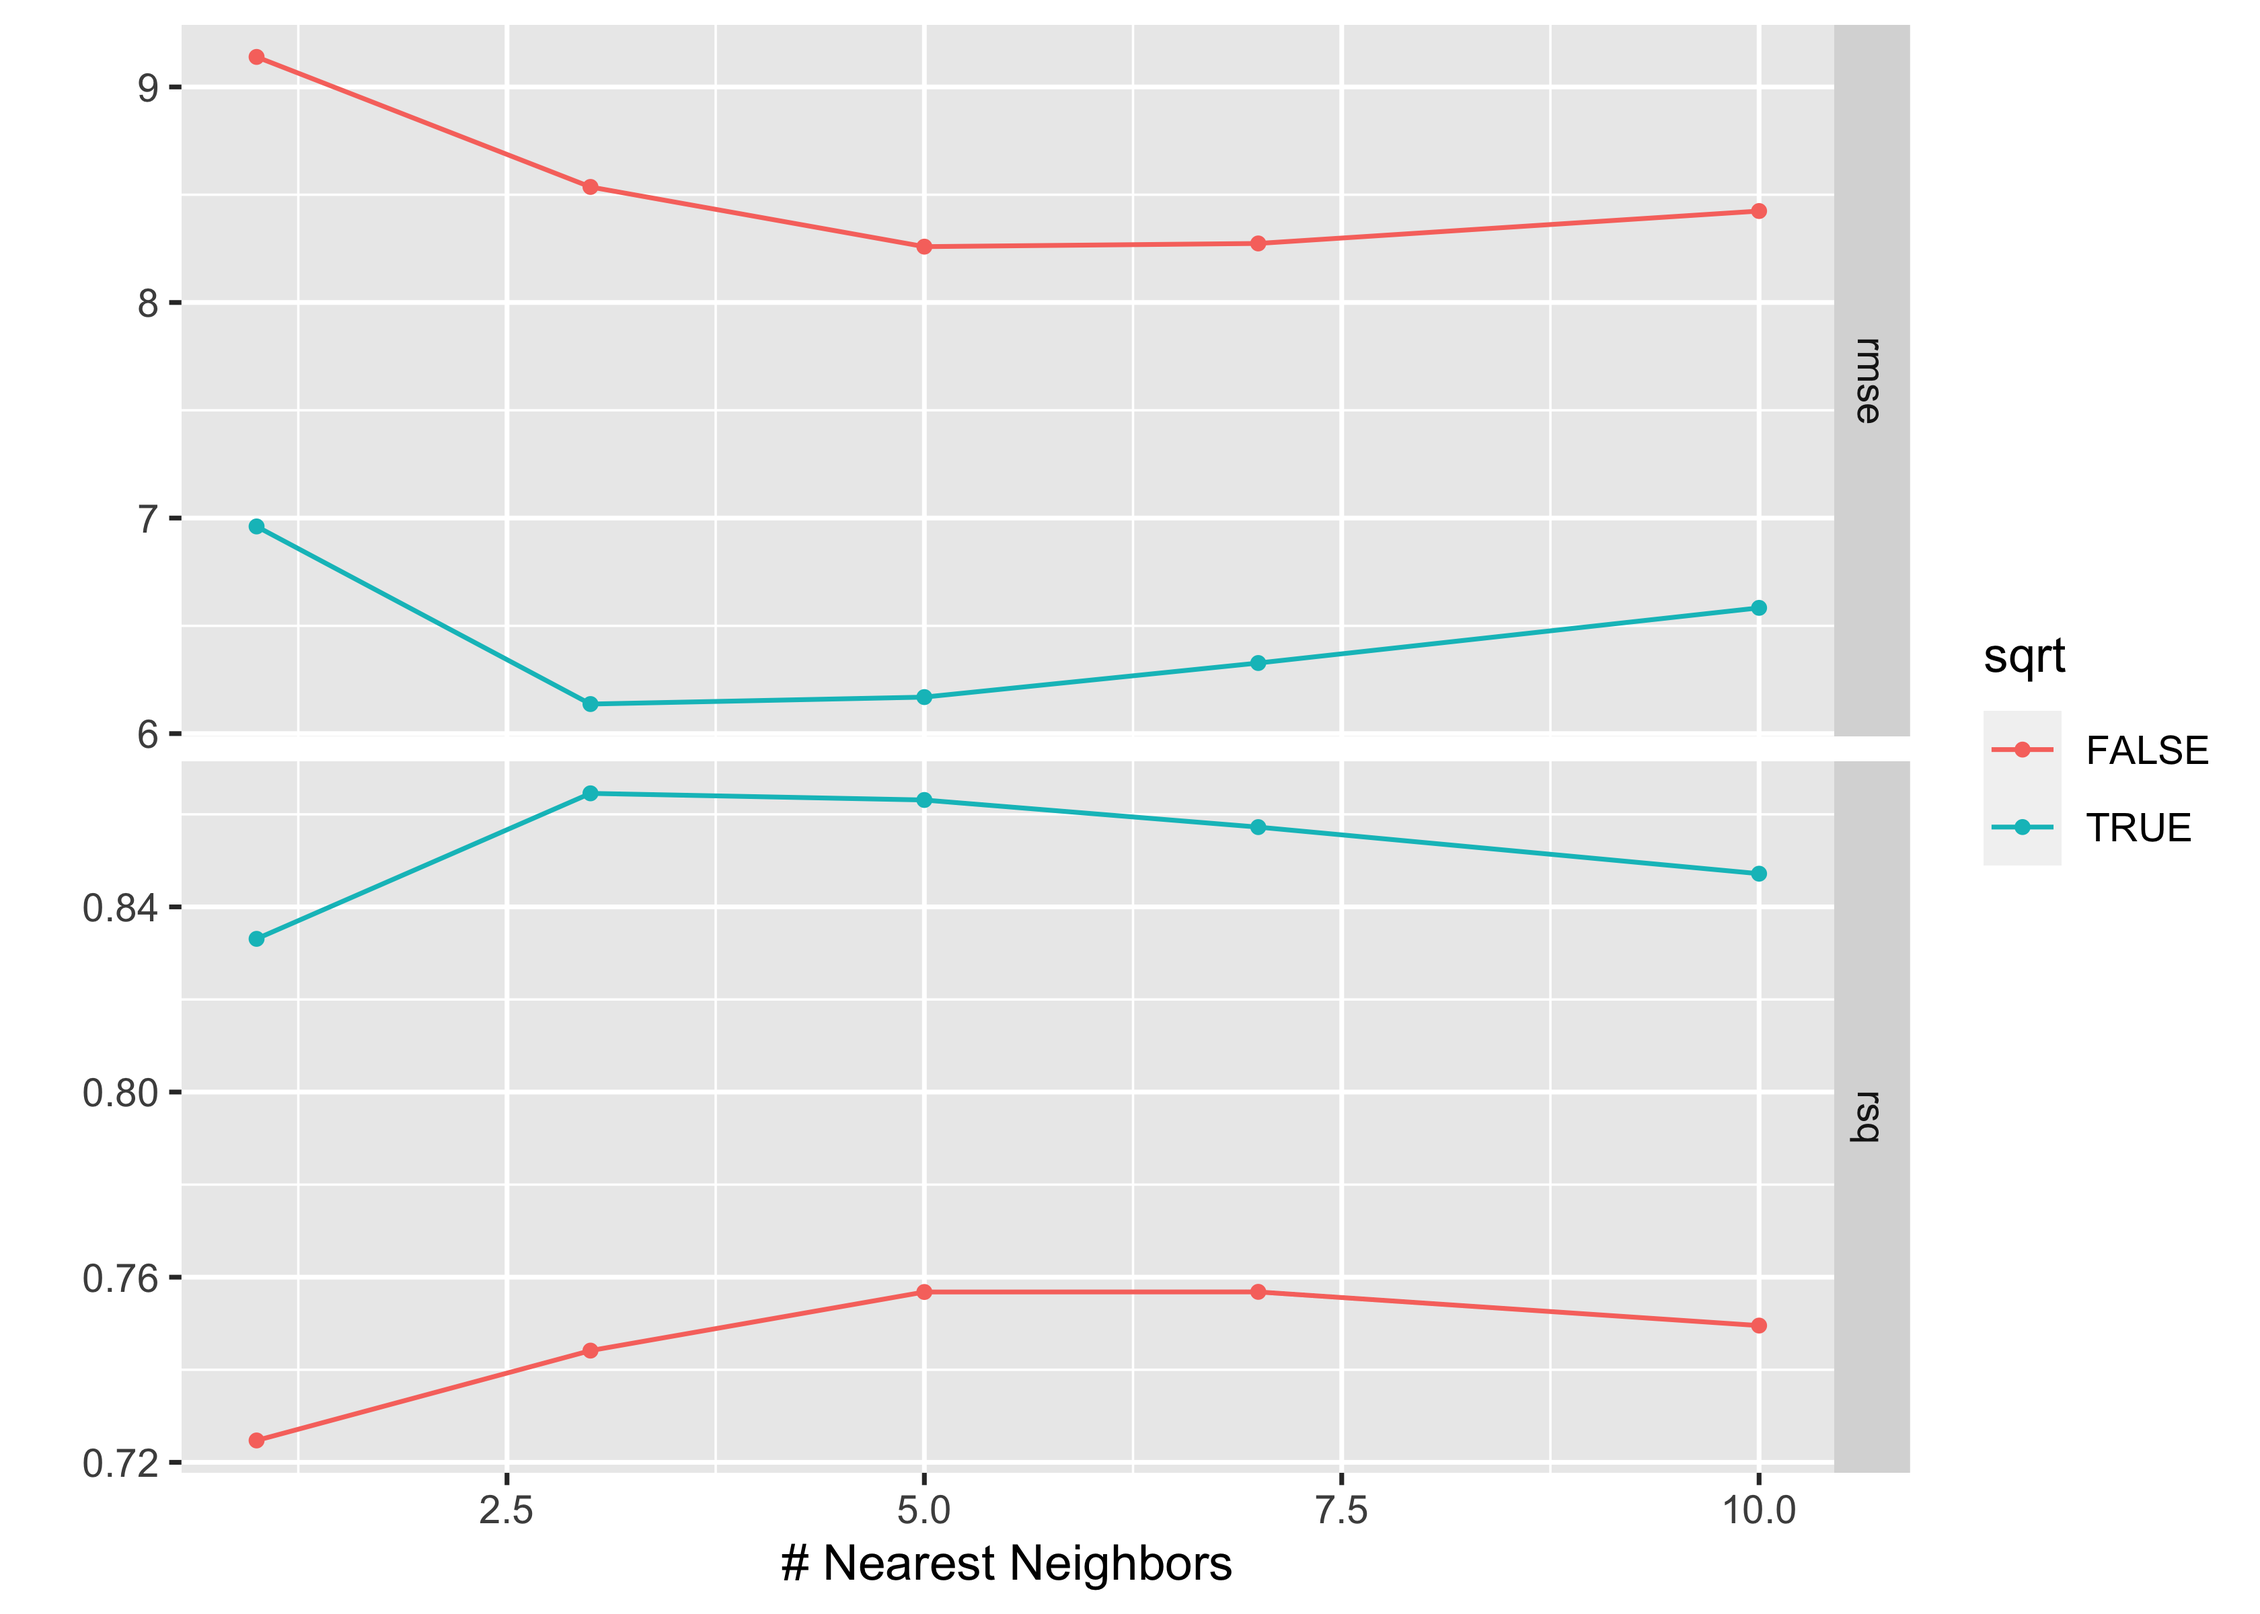
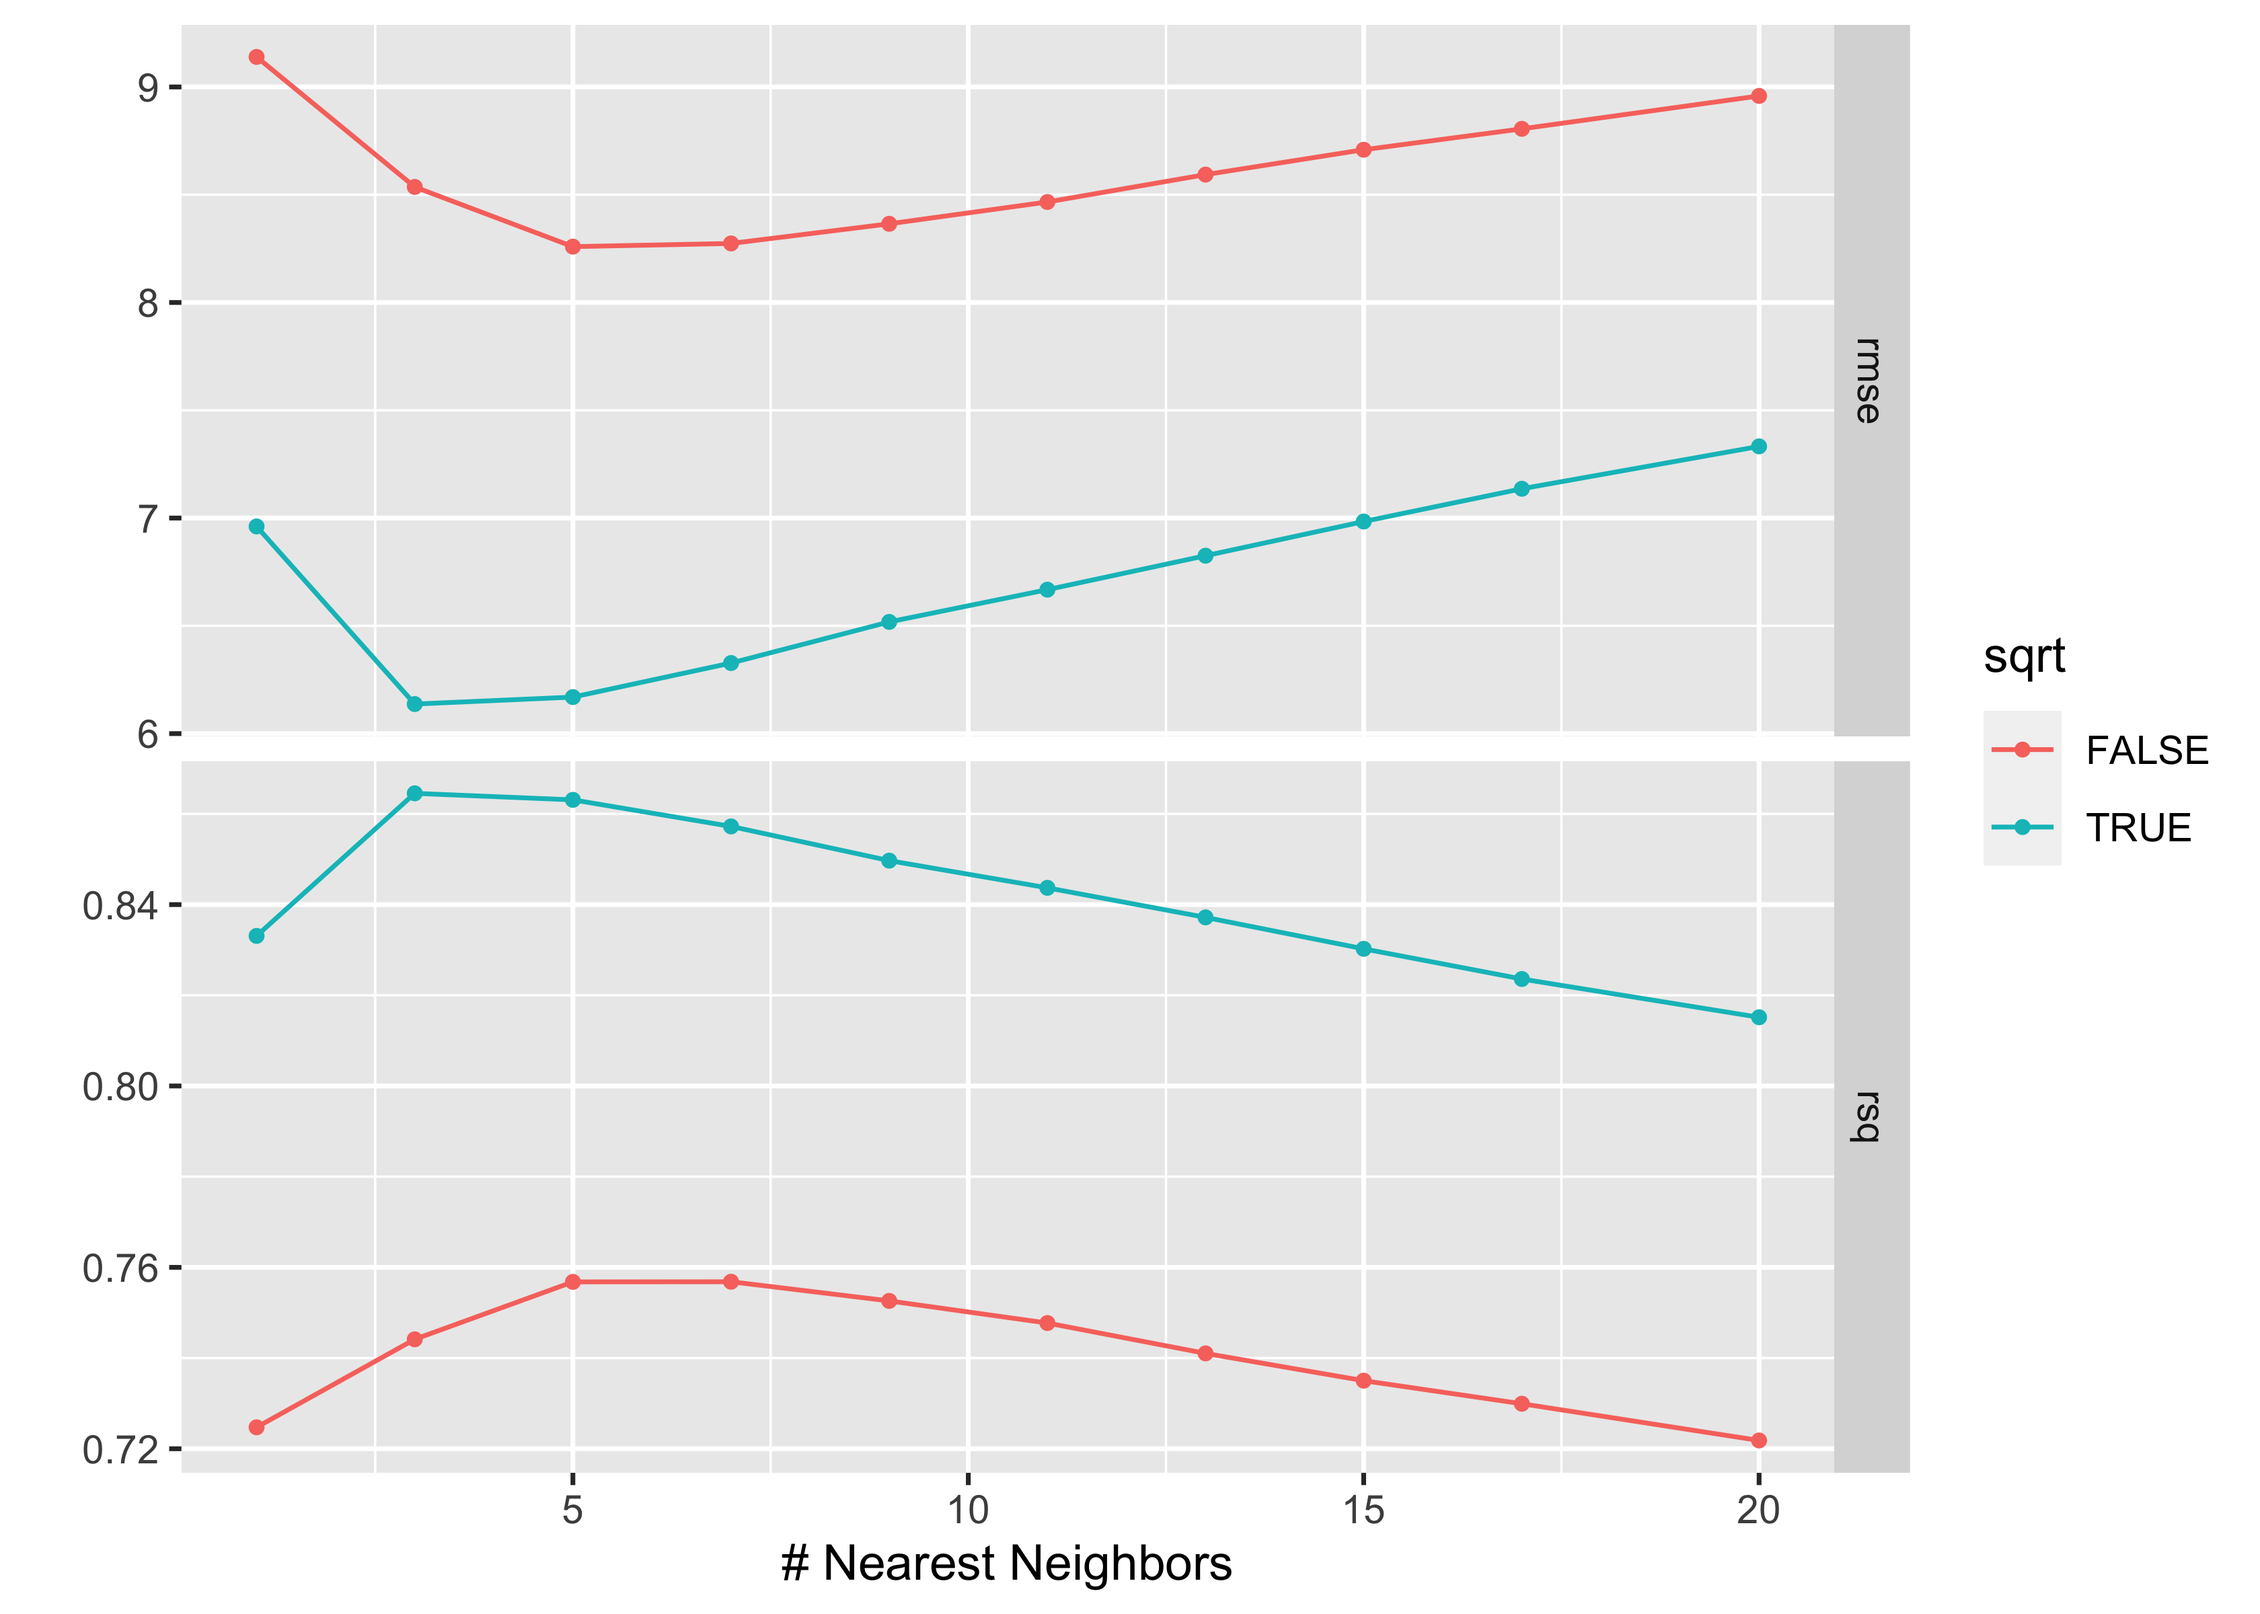
update readme grid

diff --git a/README.md b/README.md
@@ -56,8 +56,8 @@ wflow <- workflow() %>%
 
 grid <- grid_regular(
   sqrt = use_step(),
-  neighbors(),
-  levels = 5
+  neighbors(c(1, 20)),
+  levels = 10
 )
 
 res <- tune_grid(
@@ -70,3 +70,6 @@ autoplot(res)
 ```
 
 <img src="man/figures/README-example-1.png" width="100%" />
+
+We can see that taking the square root of the numeric predictors had a
+strong effect in the model results.
